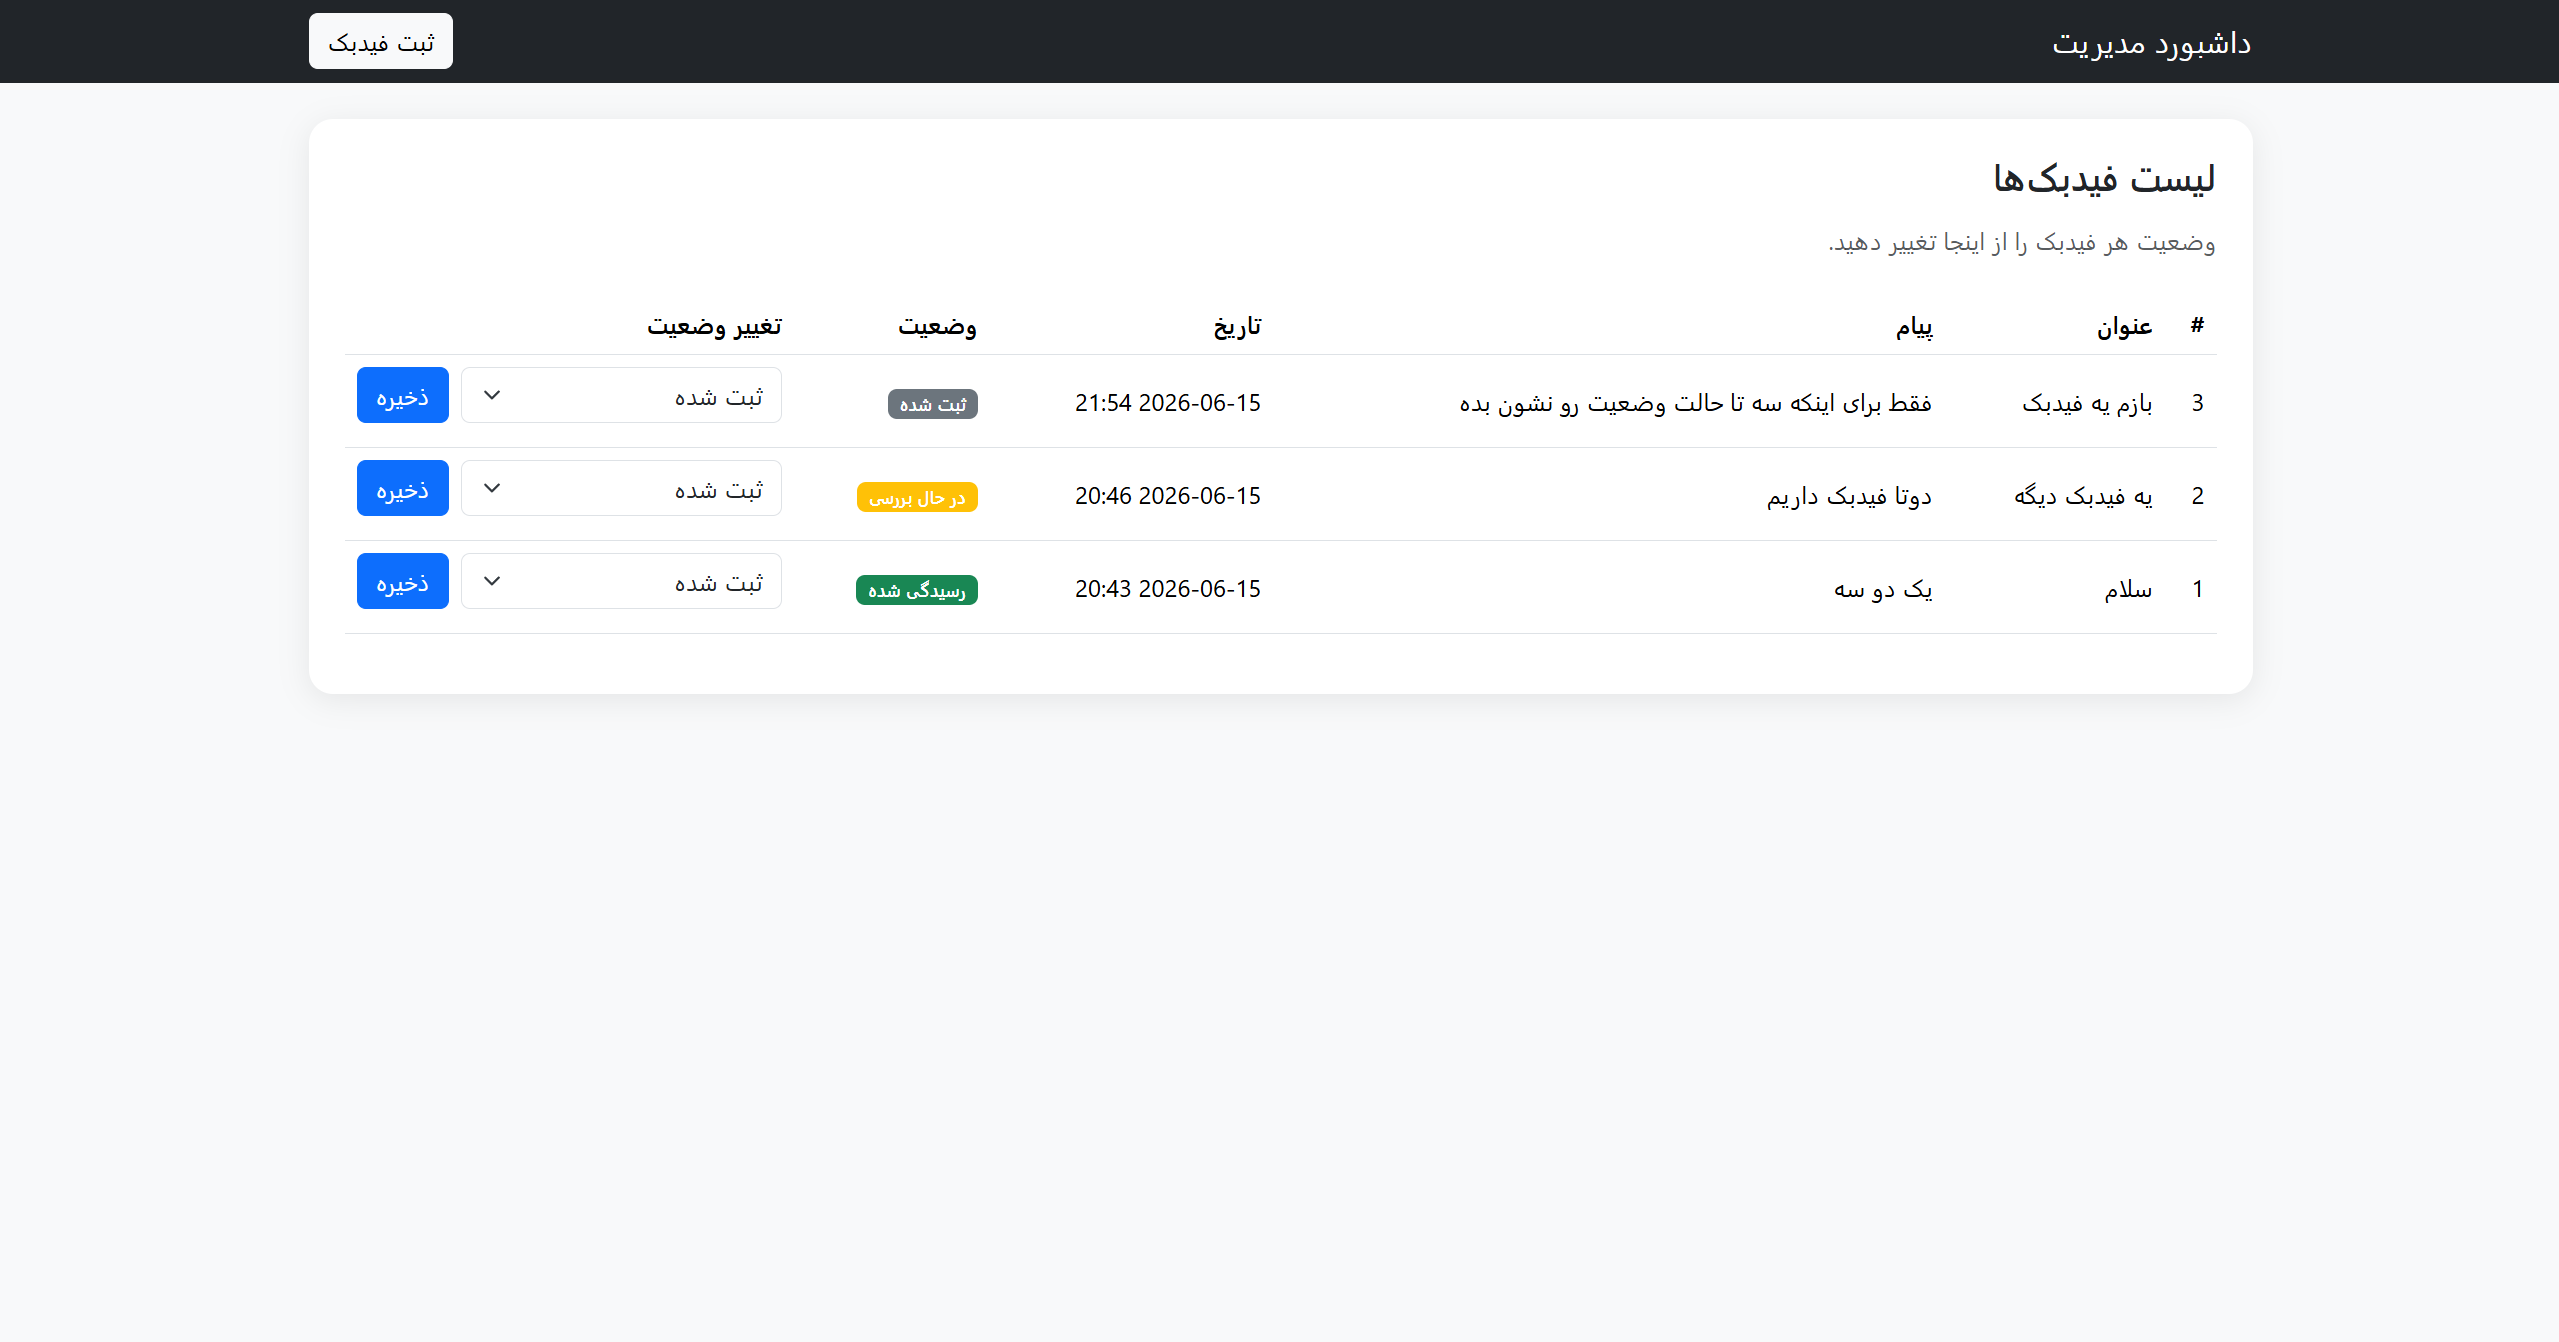
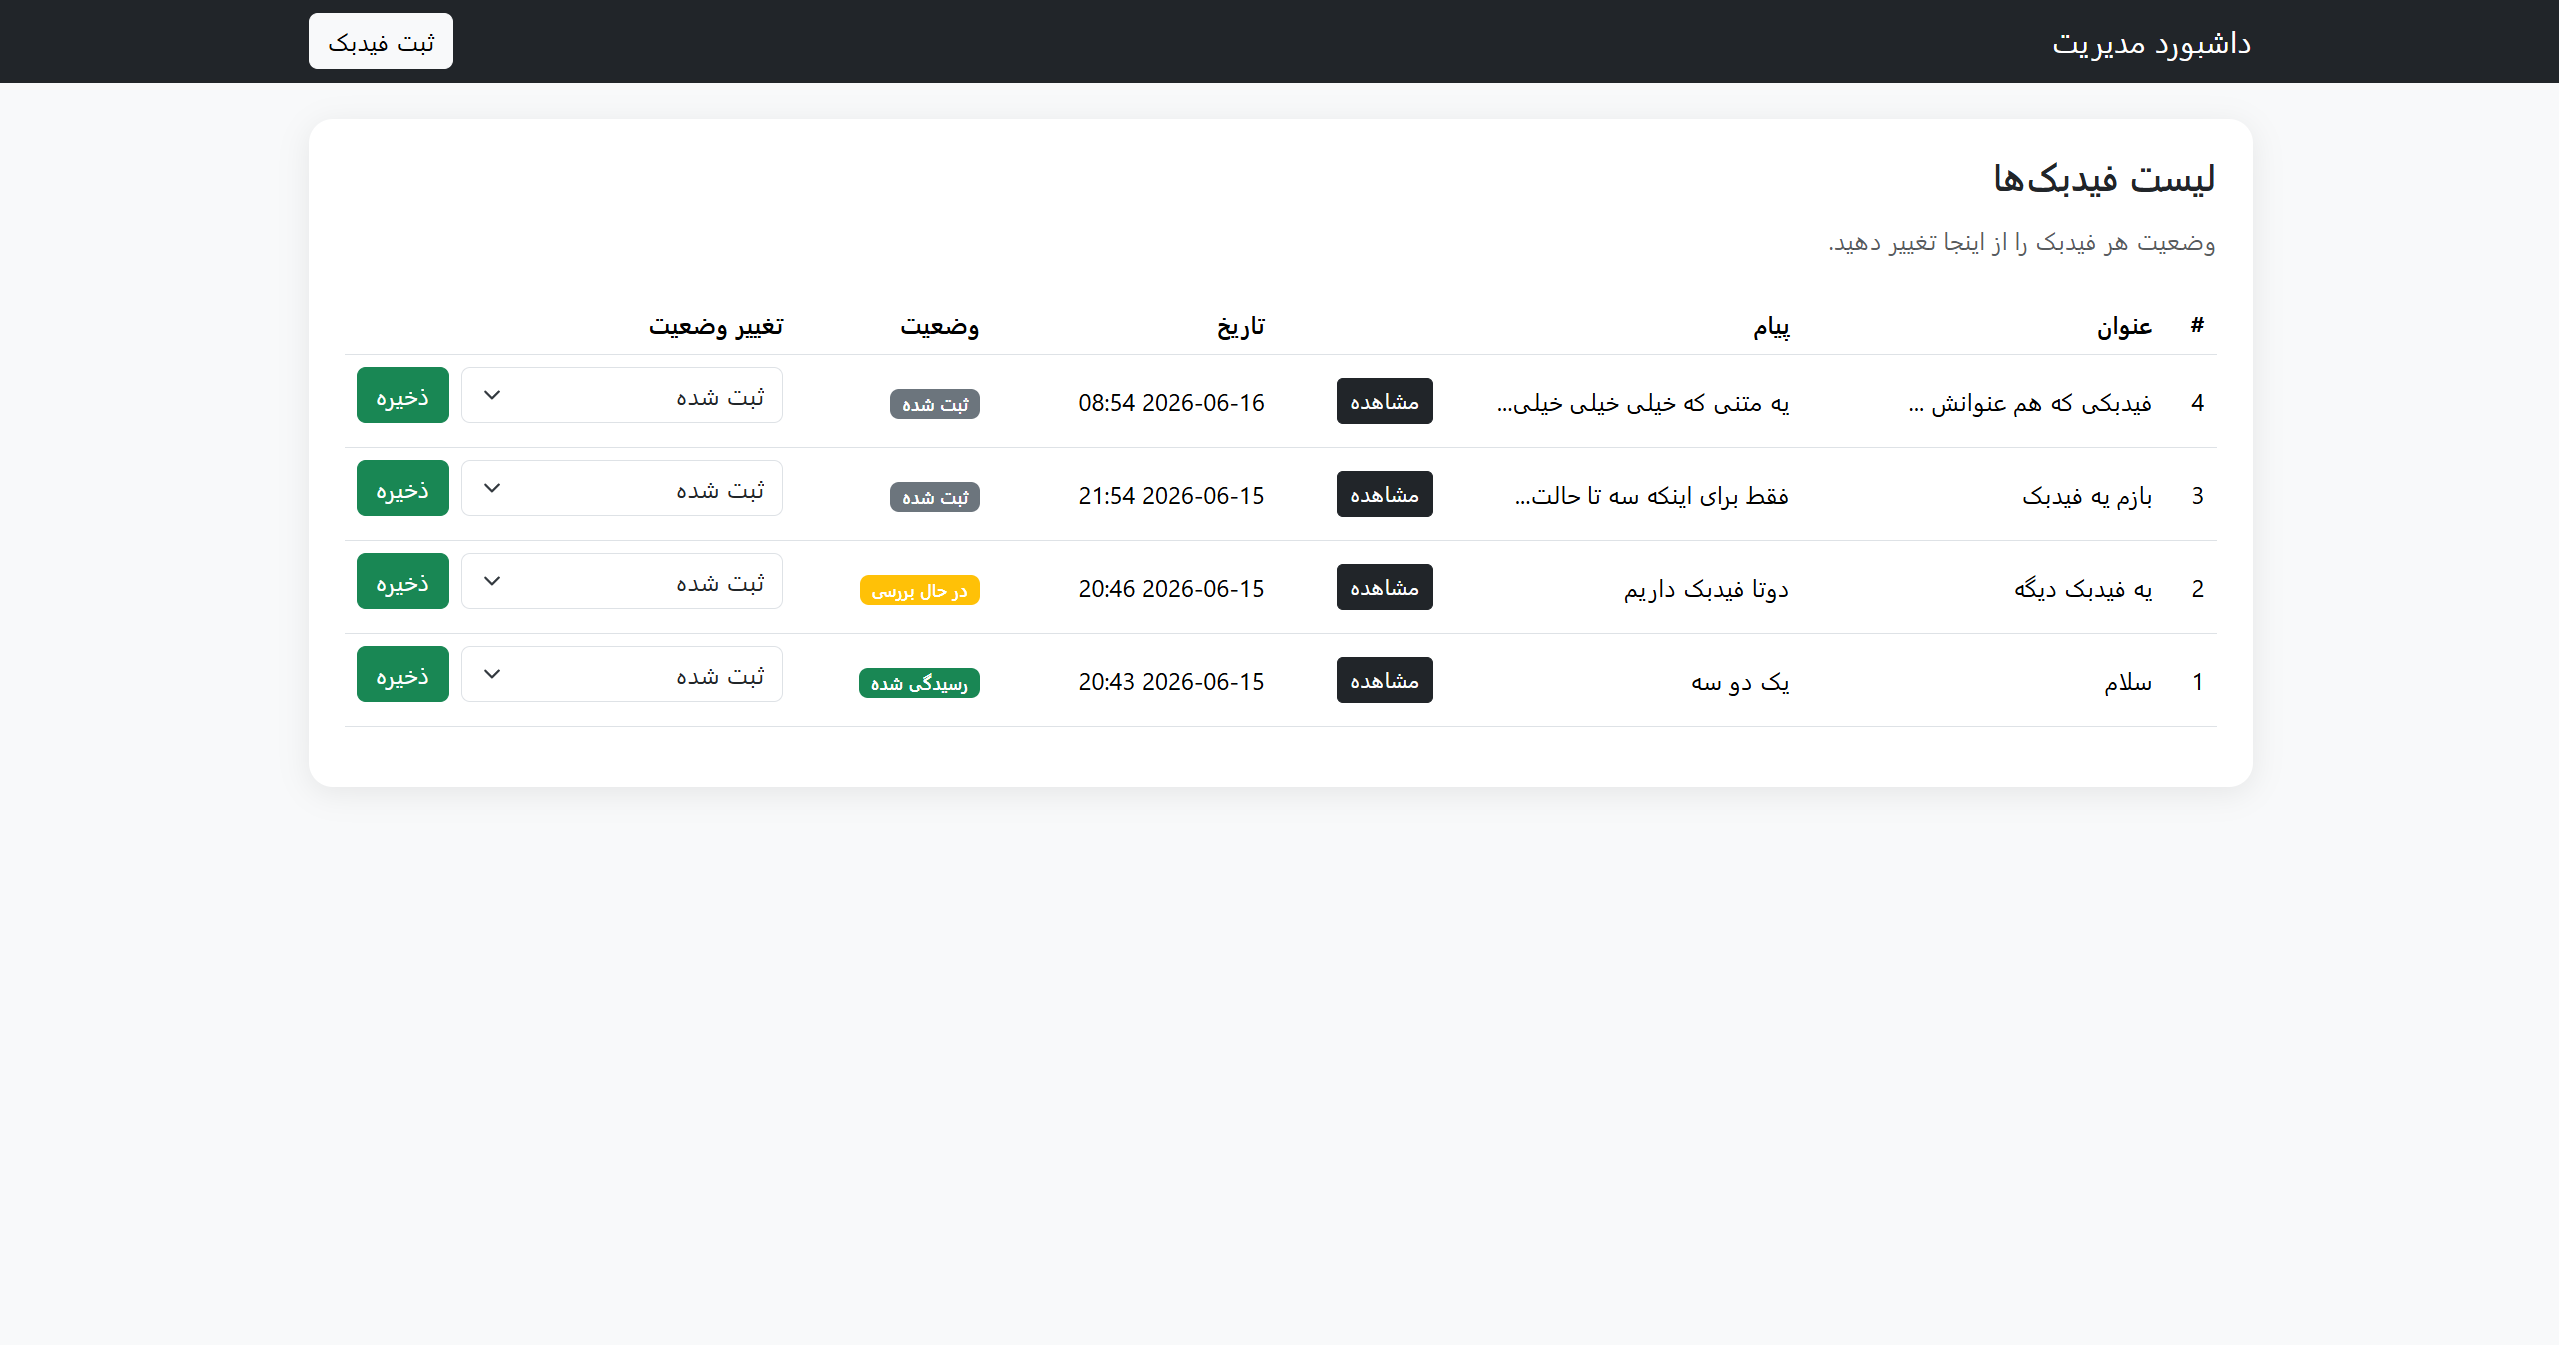
Better display of long titles and messages

diff --git a/app/templates/dashboard.html b/app/templates/dashboard.html
@@ -4,7 +4,7 @@
         <meta charset="UTF-8" />
         <meta name="viewport" content="width=device-width, initial-scale=1.0" />
         <title>داشبورد مدیریت | Feedback Board</title>
-        <link href="https://cdn.jsdelivr.net/npm/bootstrap@5.3.3/dist/css/bootstrap.rtl.min.css" rel="stylesheet">
+        <link href="https://cdn.jsdelivr.net/npm/bootstrap@5.3.3/dist/css/bootstrap.rtl.min.css" rel="stylesheet" />
         <link rel="stylesheet" href="/static/css/style.css" />
     </head>
 
@@ -41,8 +41,31 @@
                             {% for feedback in feedbacks %}
                             <tr>
                                 <td>{{ feedback.id }}</td>
-                                <td>{{ feedback.title }}</td>
-                                <td>{{ feedback.message[:50] }}</td>
+                                <td title="{{ feedback.title }}">
+                                    {% if feedback.title|length > 30 %}
+                                        {{ feedback.title[:20] }}...
+                                    {% else %}
+                                        {{ feedback.title }}
+                                    {% endif %}
+                                </td>
+                                <td class="message-cell">
+                                    <div class="d-flex justify-content-between align-items-center gap-0">
+                                        <span>
+                                            {% if feedback.message|length > 20 %}
+                                                {{ feedback.message[:25] }}...
+                                            {% else %}
+                                                {{ feedback.message }}
+                                            {% endif %}
+                                        </span>
+                                        <button
+                                            type="button"
+                                            class="btn btn-sm btn-dark"
+                                            data-bs-toggle="modal"
+                                            data-bs-target="#messageModal{{ feedback.id }}">
+                                            مشاهده
+                                        </button>
+                                    </div>
+                                </td>
                                 <td>{{ feedback.created_at.strftime("%Y-%m-%d %H:%M") }}</td>
                                 <td>
                                     {% if feedback.status == "registered" %}
@@ -78,15 +101,36 @@
                                                 رسیدگی شده
                                             </option>
                                         </select>
-                                        <button type="submit" class="btn btn-primary">ذخیره</button>
+                                        <button type="submit" class="btn btn-success">
+                                            ذخیره   
+                                        </button>
                                     </form>
                                 </td>
                             </tr>
+                            <div class="modal fade" id="messageModal{{ feedback.id }}" tabindex="-1" aria-hidden="true">
+                                <div class="modal-dialog modal-dialog-centered">
+                                    <div class="modal-content">
+                                        <div class="modal-header">
+                                            <h5 class="modal-title">{{ feedback.title }}</h5>
+                                            <button type="button" class="btn-close" data-bs-dismiss="modal"></button>
+                                        </div>
+                                        <div class="modal-body">
+                                            {{ feedback.message }}
+                                        </div>
+                                        <div class="modal-footer">
+                                            <button type="button" class="btn btn-secondary" data-bs-dismiss="modal">
+                                                بستن
+                                            </button>
+                                        </div>
+                                    </div>
+                                </div>
+                            </div>
                             {% endfor %}
                         </tbody>
                     </table>
                 </div>
             </div>
         </main>
+        <script src="https://cdn.jsdelivr.net/npm/bootstrap@5.3.3/dist/js/bootstrap.bundle.min.js"></script>
     </body>
 </html>

diff --git a/app/static/css/style.css b/app/static/css/style.css
@@ -11,3 +11,8 @@ body {
 .table td {
     vertical-align: middle;
 }
+
+.message-cell {
+    width: 350px;
+    padding-left: 40px !important;
+}